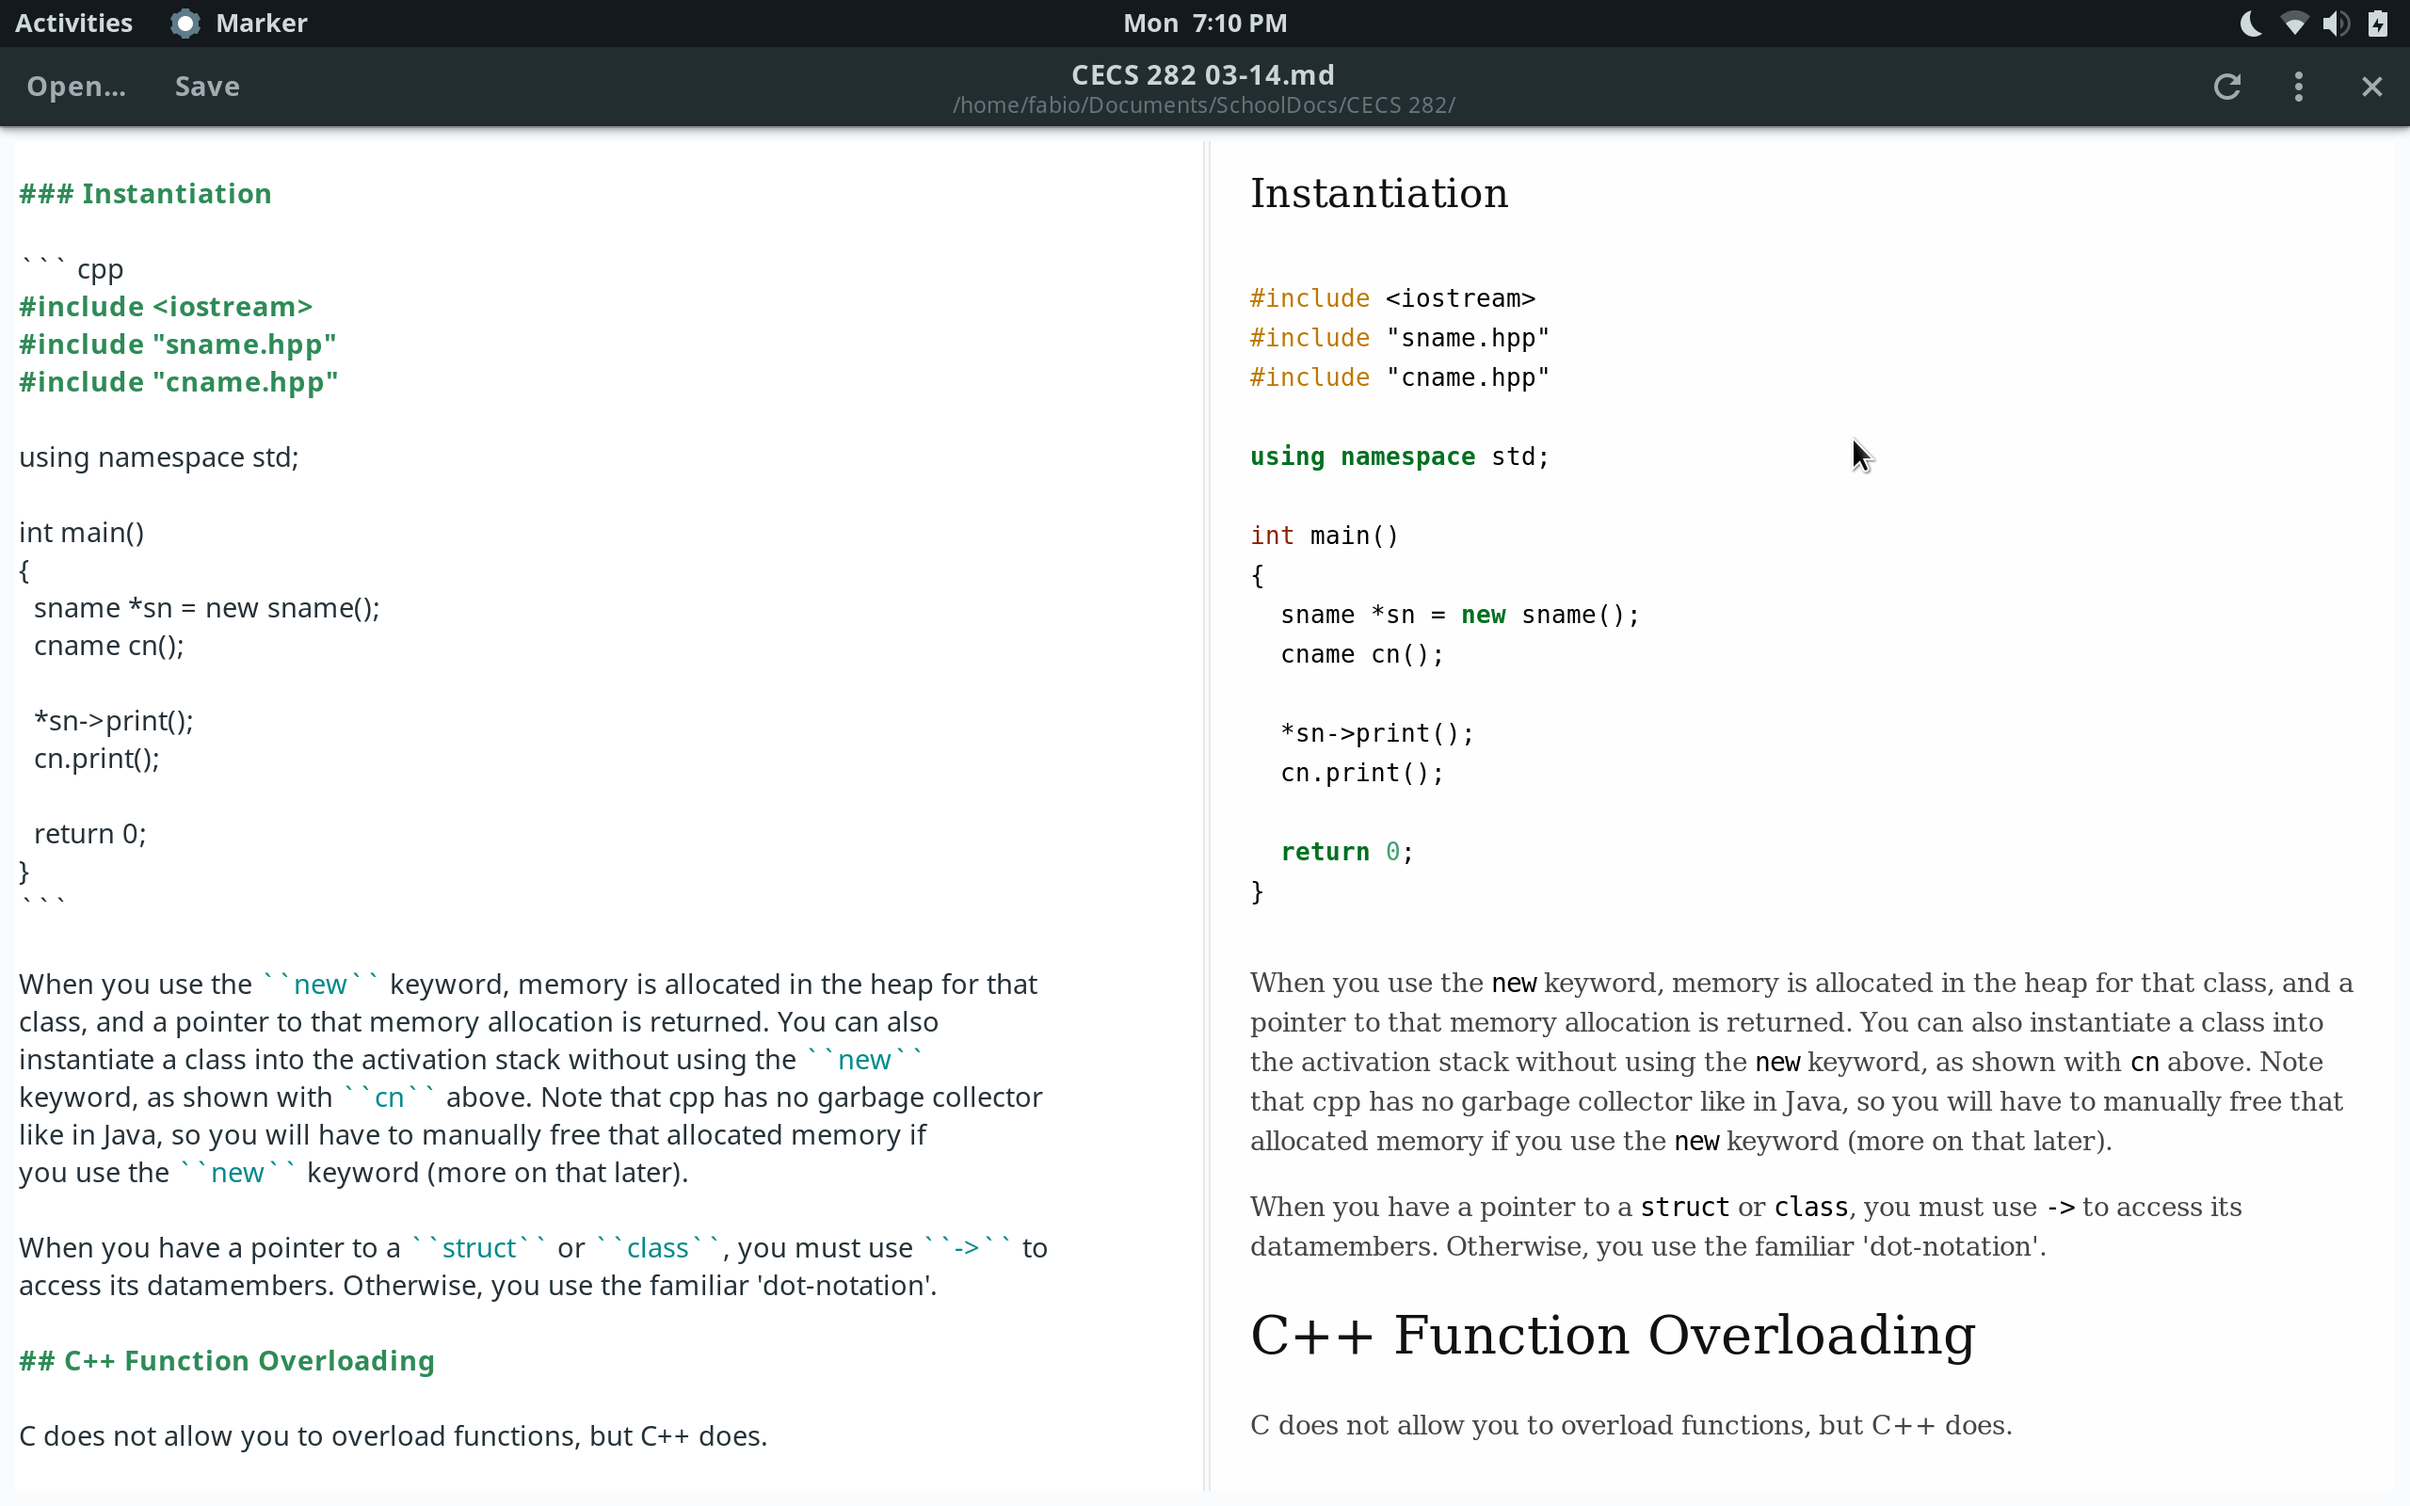
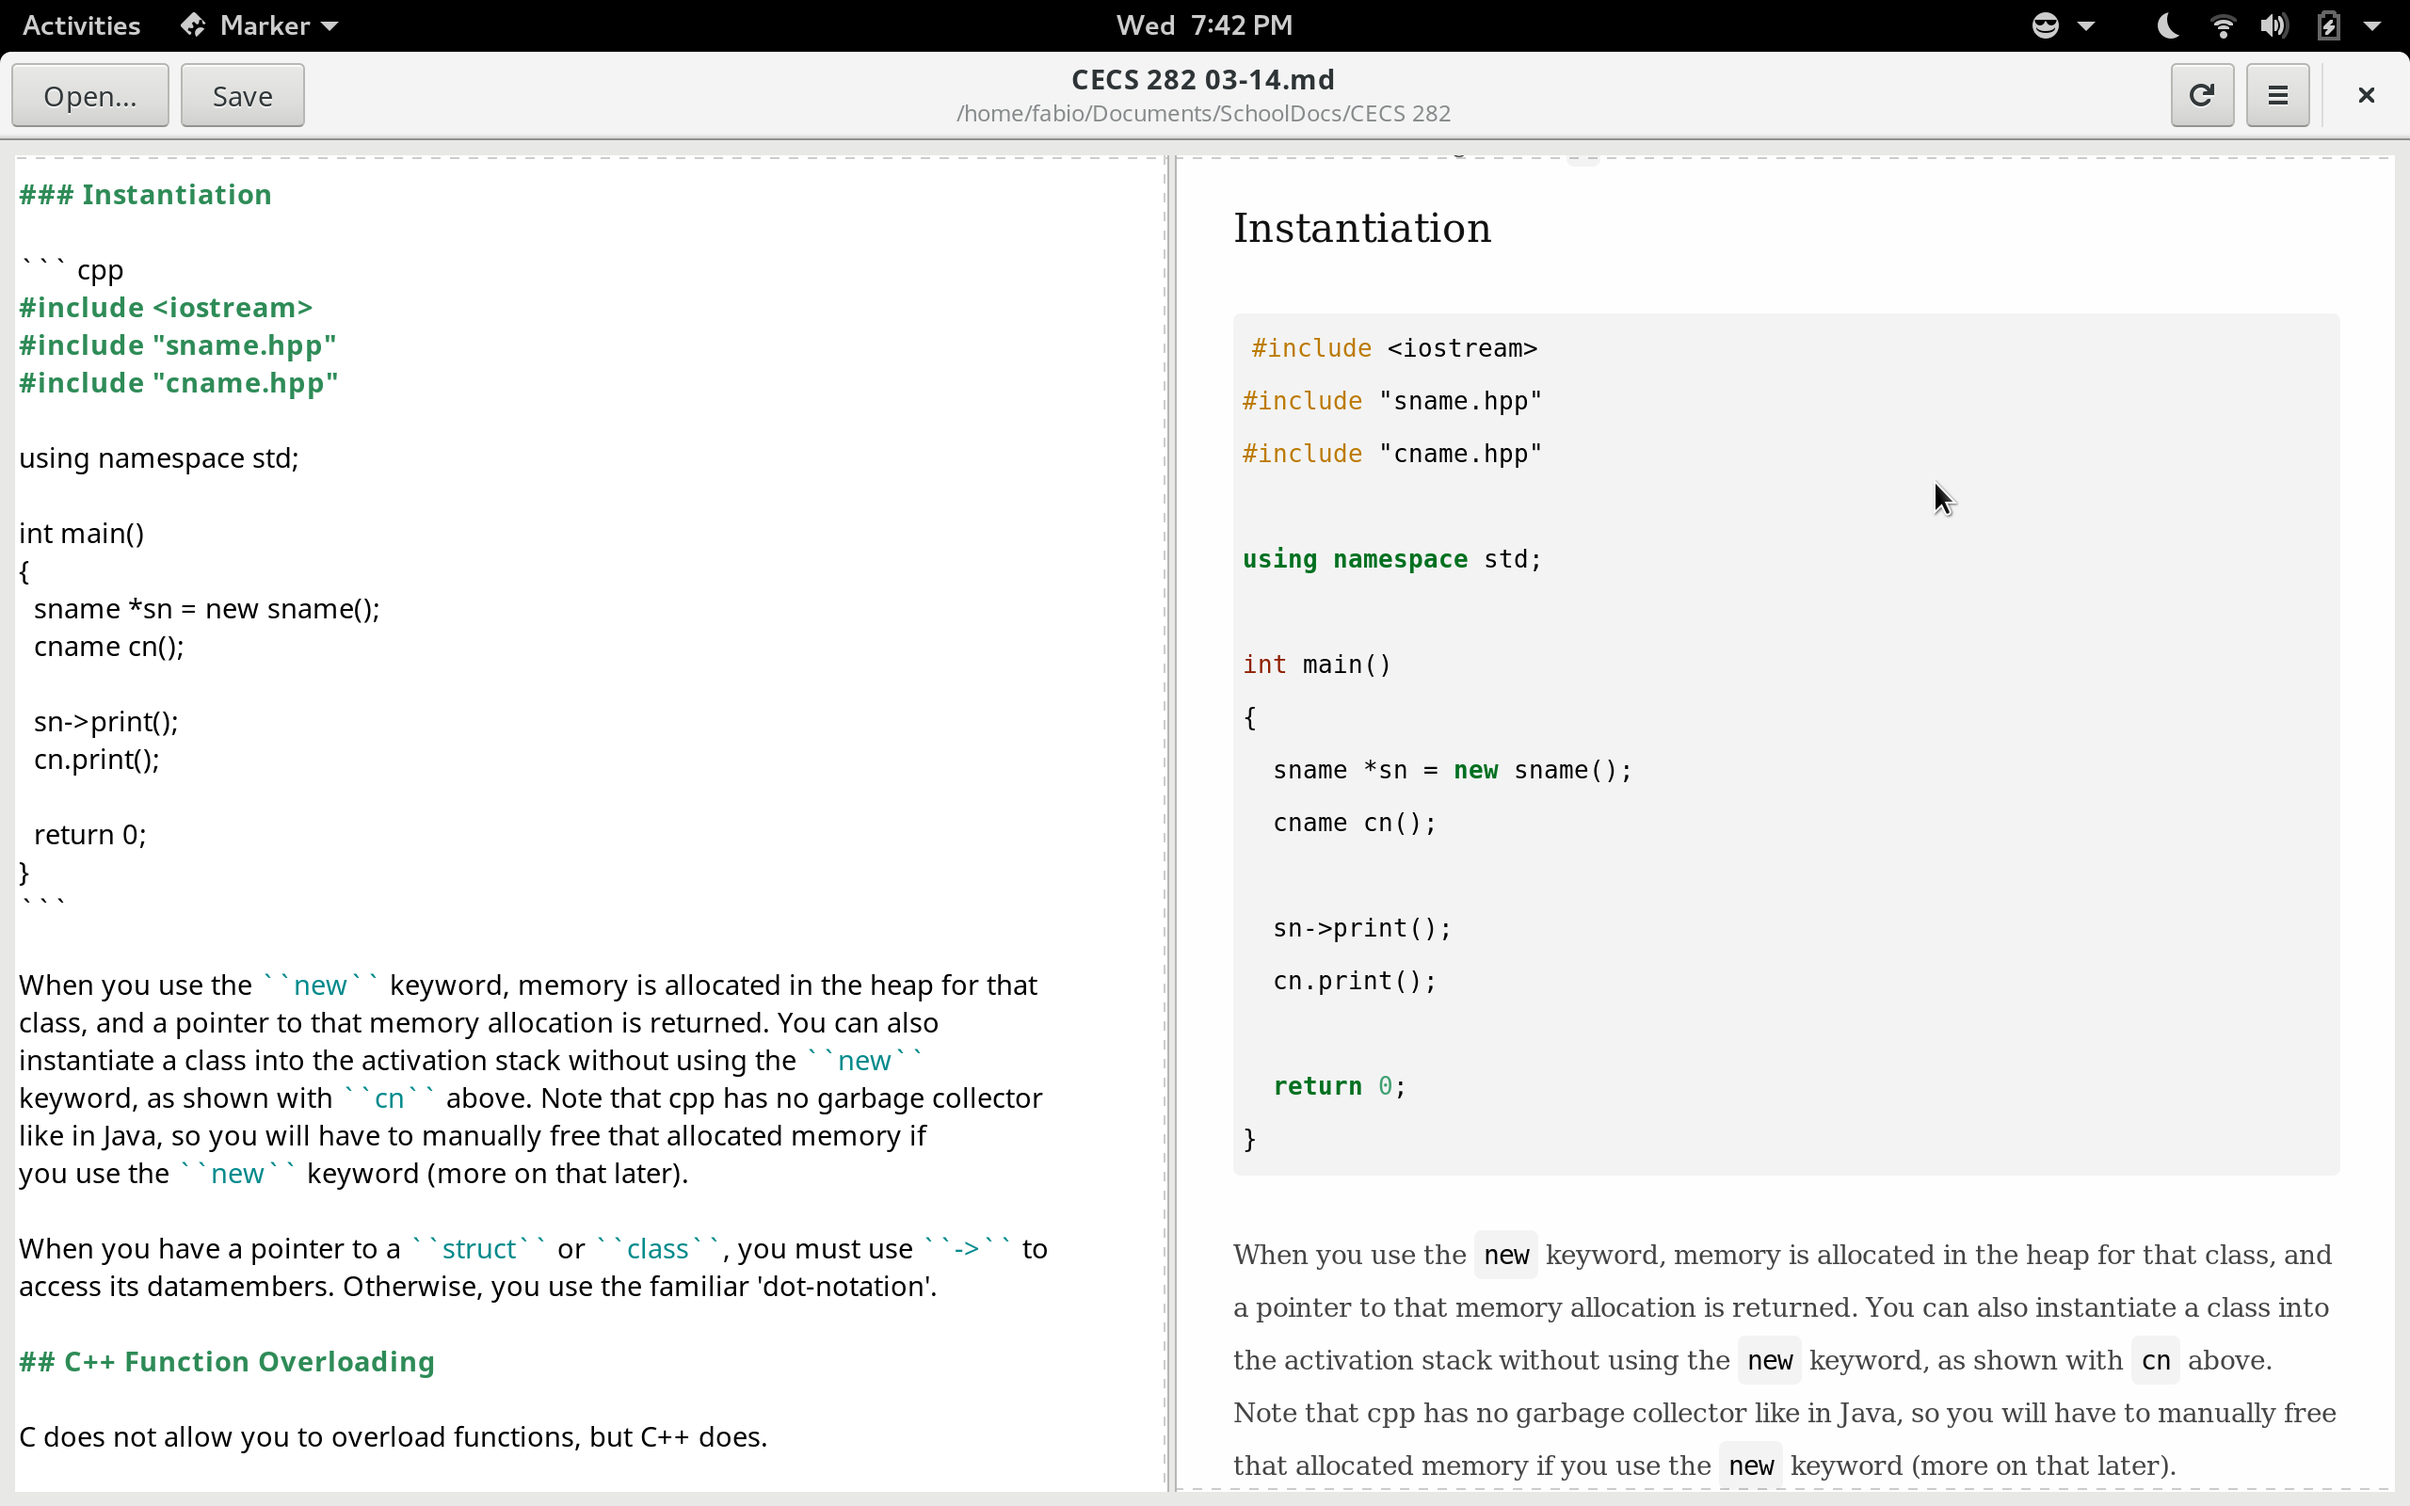
modify css theme and update screenshot with a more vanilla gnome look

diff --git a/styles/classy.css b/styles/classy.css
@@ -9,7 +9,7 @@ body {
   color: #444;
   font-family: Georgia, Palatino, 'Palatino Linotype', Times, 'Times New Roman', serif;
   font-size: 12px;
-  line-height: 1.5em;
+  line-height: 2em;
   padding: 1em;
   margin: auto;
   max-width: 42em;
@@ -135,6 +135,9 @@ samp {
   font-family: monospace, monospace;
   _font-family: 'courier new', monospace;
   font-size: 0.98em;
+  background-color: #f3f3f3;
+  padding: 5px;
+  border-radius: 4px;
 }
 
 pre {
